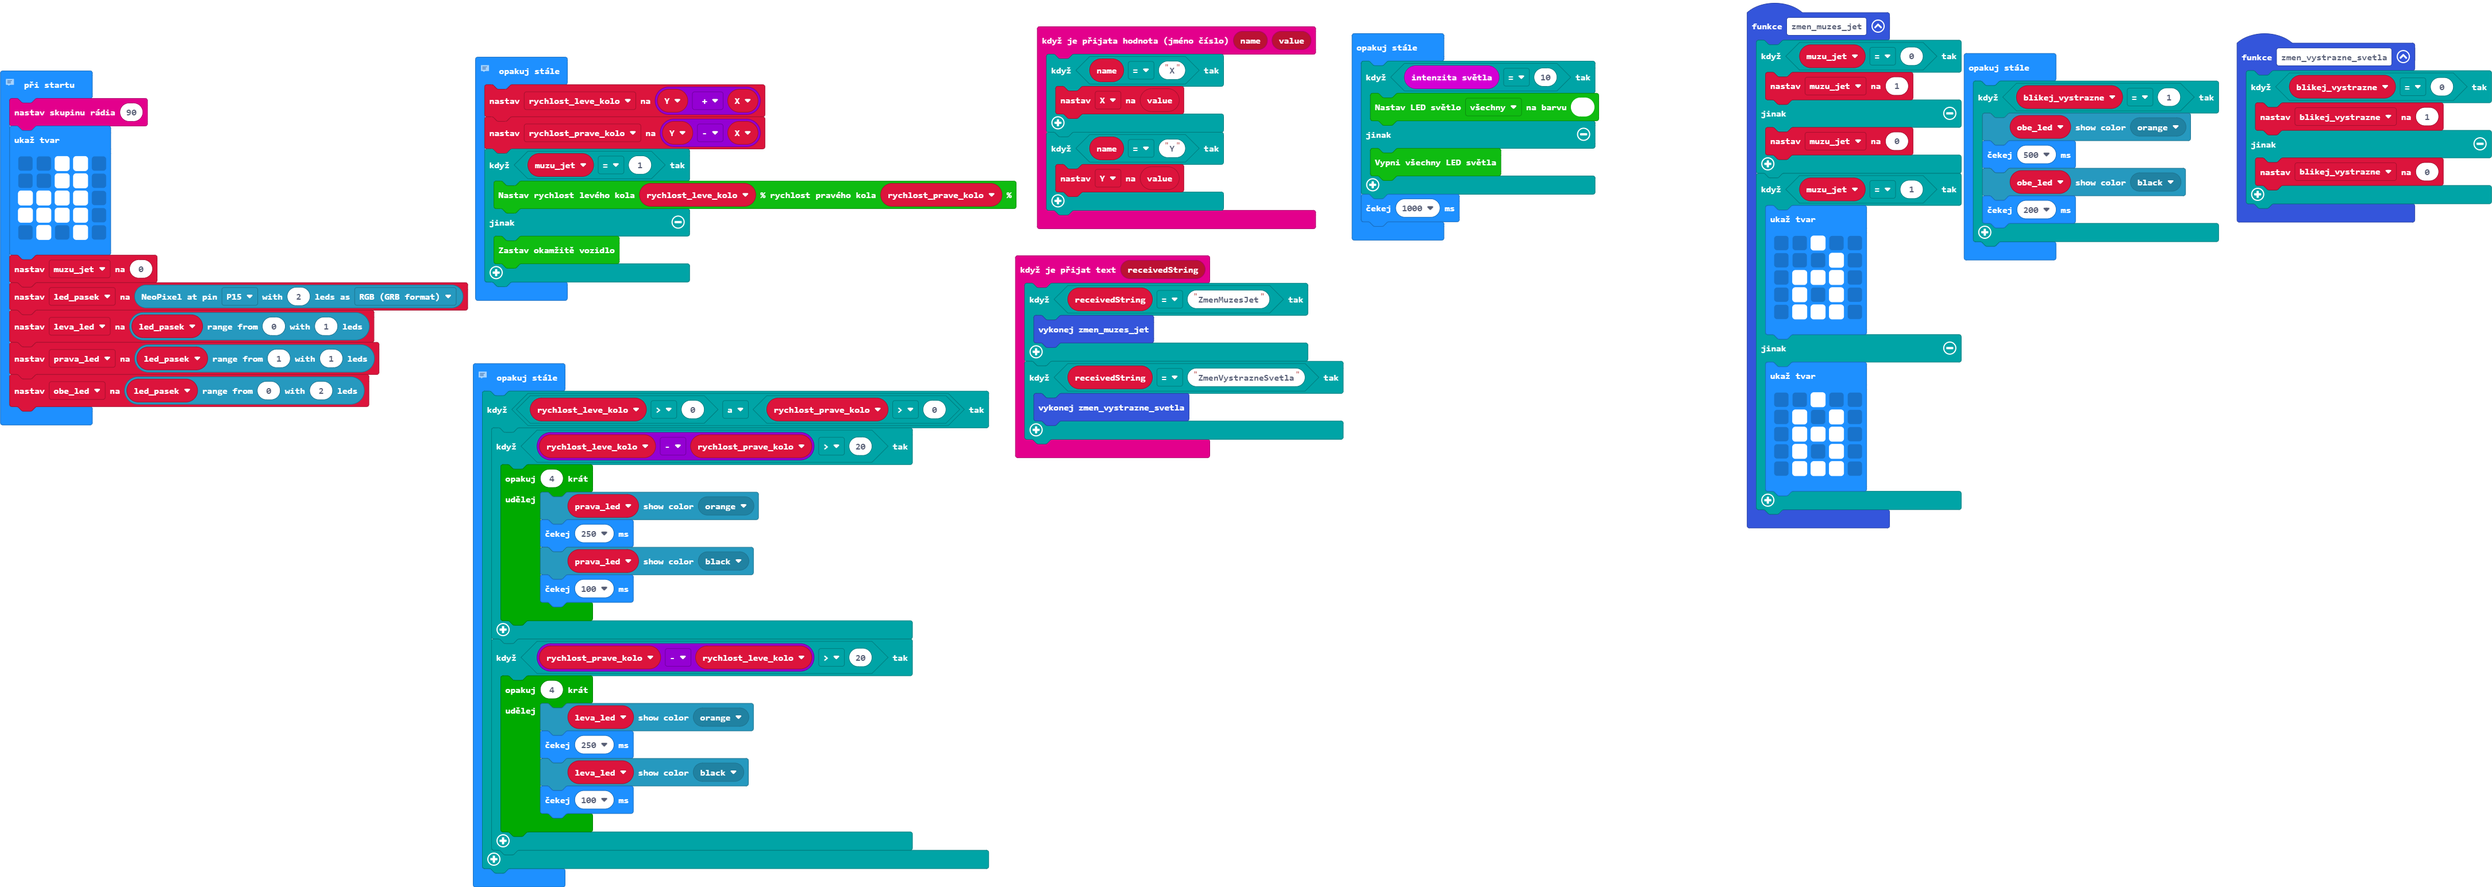
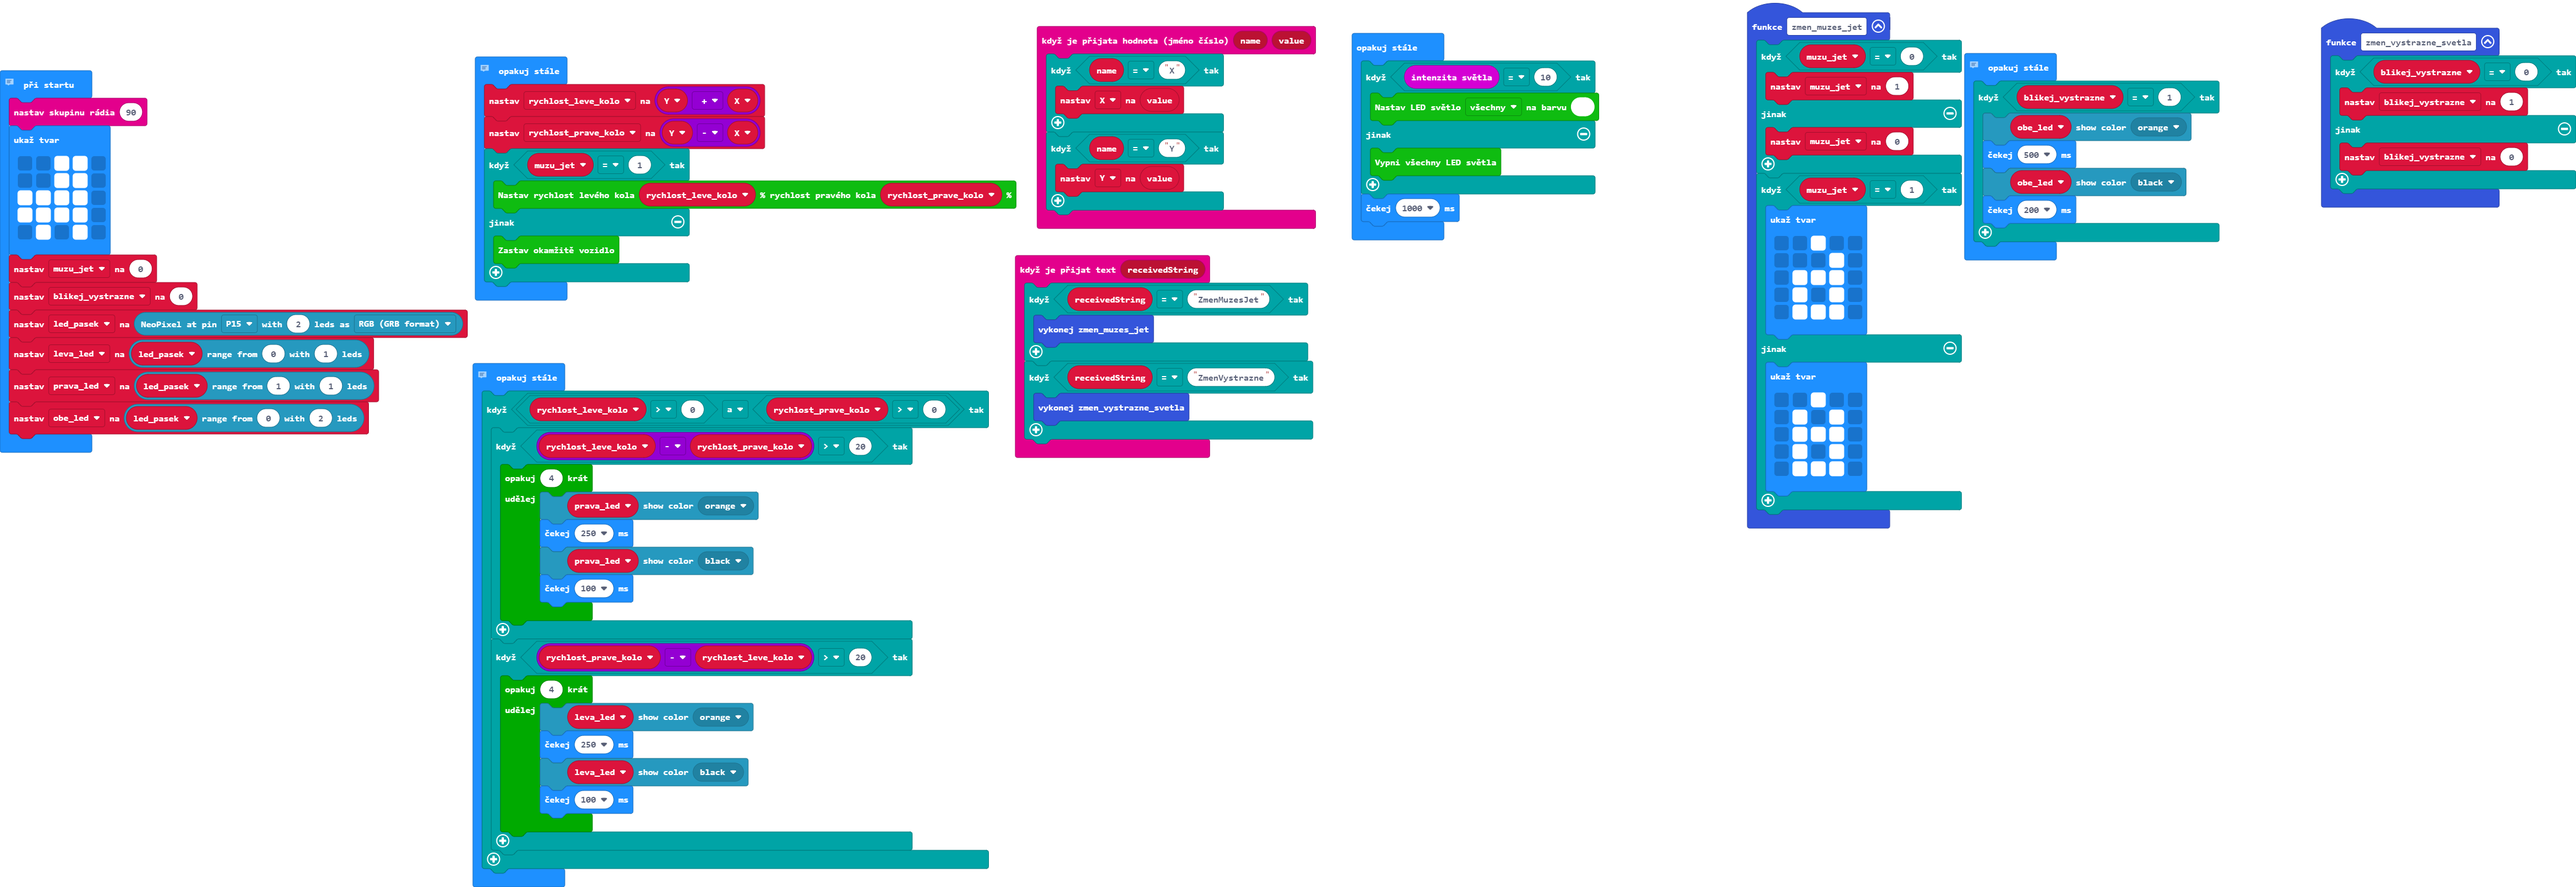
Aktualizovat main.blocks, main.ts

Changed region(s): [[0.0, 0.0, 1.0, 1.0], [0.3735, 0.9631, 0.4047, 0.9942], [0.3424, 0.932, 0.3735, 0.9631]]

diff --git a/main.ts b/main.ts
@@ -2,7 +2,7 @@ radio.onReceivedString(function (receivedString) {
     if (receivedString == "ZmenMuzesJet") {
         zmen_muzes_jet()
     }
-    if (receivedString == "ZmenVystrazneSvetla") {
+    if (receivedString == "ZmenVystrazne") {
         zmen_vystrazne_svetla()
     }
 })
@@ -64,6 +64,7 @@ basic.showLeds(`
     . # . # .
     `)
 muzu_jet = 0
+blikej_vystrazne = 0
 let led_pasek = neopixel.create(DigitalPin.P15, 2, NeoPixelMode.RGB)
 let leva_led = led_pasek.range(0, 1)
 let prava_led = led_pasek.range(1, 1)
@@ -87,6 +88,7 @@ basic.forever(function () {
     }
     basic.pause(1000)
 })
+// výstražné světla
 basic.forever(function () {
     if (blikej_vystrazne == 1) {
         obe_led.showColor(neopixel.colors(NeoPixelColors.Orange))
